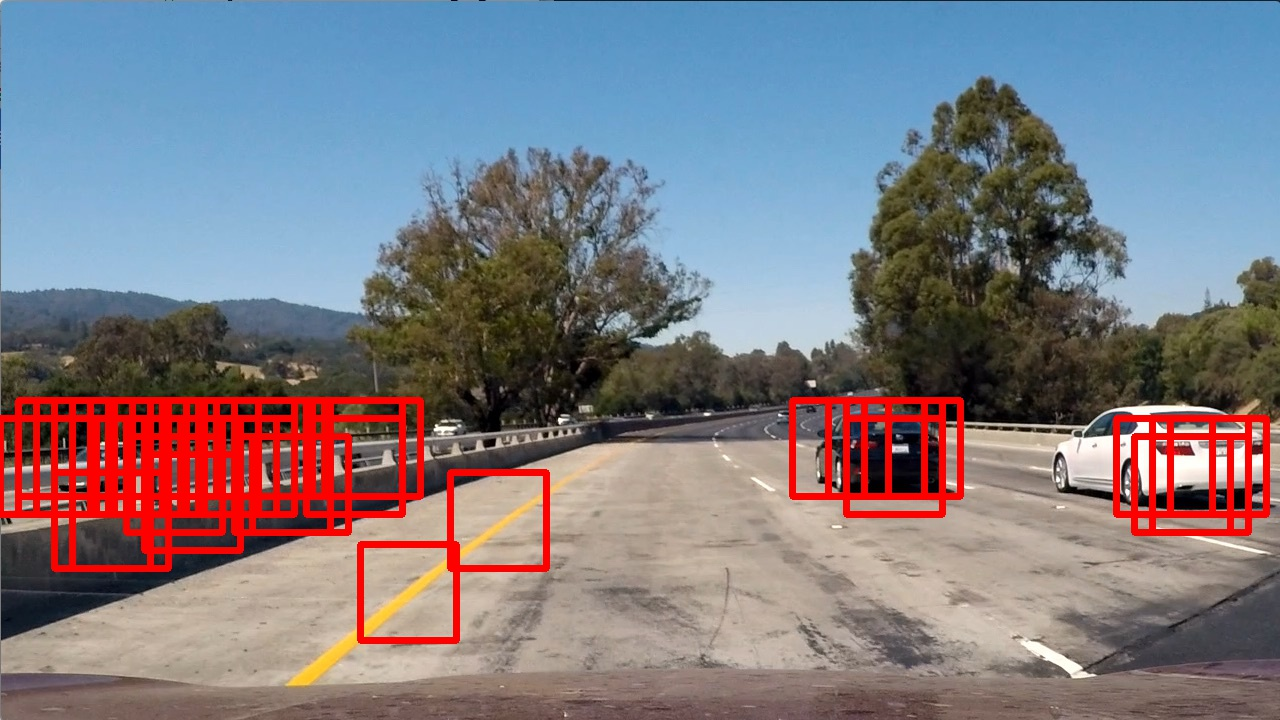
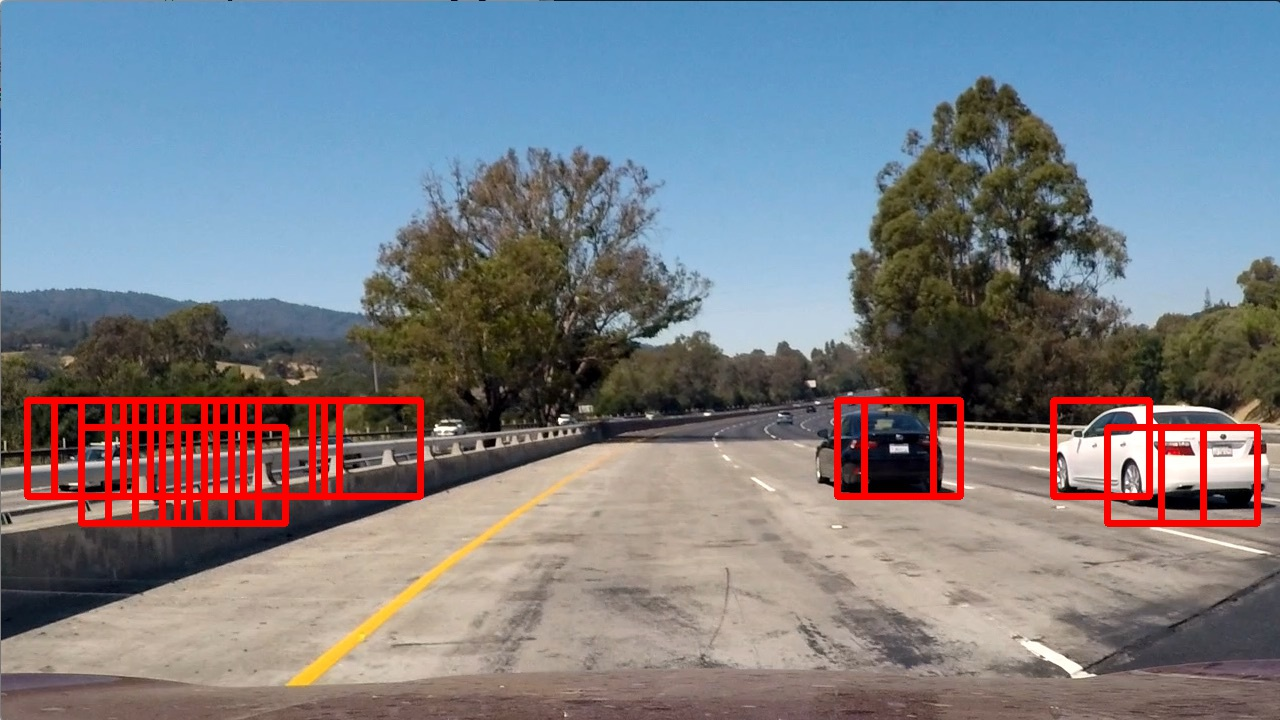
upload images of heat maps

Changed region(s): [[0.0, 0.55, 0.4375, 0.9167], [0.8125, 0.55, 1.0, 0.7639], [0.5938, 0.55, 0.75, 0.7333]]

diff --git a/README.md b/README.md
@@ -22,14 +22,21 @@ The goals / steps of this project are the following:
 [sliding_window2]: ./output_images/sliding_window-test4.jpg
 [sliding_window3]: ./output_images/sliding_window-test5.jpg
 
-[heat1]: ./output_images/heat_map-test1.jpg
-[heat2]: ./output_images/heat_map-test4.jpg
-[heat3]: ./output_images/heat_map-test5.jpg
+[heat1]: ./output_images/frame-1-heat.png
+[heat2]: ./output_images/frame-2-heat.png
+[heat3]: ./output_images/frame-3-heat.png
+[heat4]: ./output_images/frame-4-heat.png
+[heat5]: ./output_images/frame-5-heat.png
+[heat6]: ./output_images/frame-6-heat.png
+[fram1]: ./output_images/frame-1.png
+[fram2]: ./output_images/frame-2.png
+[fram3]: ./output_images/frame-3.png
+[fram4]: ./output_images/frame-4.png
+[fram5]: ./output_images/frame-5.png
+[fram6]: ./output_images/frame-6.png
 
-[image5]: ./examples/bboxes_and_heat.png
-[image6]: ./examples/labels_map.png
-[image7]: ./examples/output_bboxes.png
-[video1]: ./project_video.mp4
+[heat_output] ./output_images/frame-7-heat-output.png
+[detect]: ./output_images/frame-7-output.jpg
 
 ## [Rubric](https://review.udacity.com/#!/rubrics/513/view) Points
 ### Here I will consider the rubric points individually and describe how I addressed each point in my implementation.  
@@ -45,7 +52,7 @@ You're reading it!
 
 #### 1. Explain how (and identify where in your code) you extracted HOG features from the training images.
 
-The code for extracted HOG features is contained in lines # 21 through # 39 of the file called `utils.py`. 
+The code for extracted HOG features is contained in lines # 21 through # 39 in `utils.py`. 
 
 I started by reading in all the `vehicle` and `non-vehicle` images.  Here is an example of one of each of the `vehicle` and `non-vehicle` classes:
 
@@ -103,7 +110,7 @@ Ultimately I searched on two scales using YCrCb 3-channel HOG features plus spat
 ### Video Implementation
 
 #### 1. Provide a link to your final video output.  Your pipeline should perform reasonably well on the entire project video (somewhat wobbly or unstable bounding boxes are ok as long as you are identifying the vehicles most of the time with minimal false positives.)
-Here's a [link to my video result](./project_video.mp4)
+Here's a [link to my video result](./output-project_video.mp4)
 
 
 #### 2. Describe how (and identify where in your code) you implemented some kind of filter for false positives and some method for combining overlapping bounding boxes.
@@ -115,13 +122,18 @@ Here's an example result showing the heatmap from a series of frames of video, t
 
 
 ### Here are six frames and their corresponding heatmaps:
-![alt text][image5]
+![alt text][heat1] ![alt text][frame1]
+![alt text][heat2] ![alt text][frame2]
+![alt text][heat3] ![alt text][frame3]
+![alt text][heat4] ![alt text][frame4]
+![alt text][heat5] ![alt text][frame5]
+![alt text][heat6] ![alt text][frame6]
 
 ### Here is the output of `scipy.ndimage.measurements.label()` on the integrated heatmap from all six frames:
-![alt text][image6]
+![alt text][heat_output]
 
 ### Here the resulting bounding boxes are drawn onto the last frame in the series:
-![alt text][image7]
+![alt text][detect]
 
 
 
@@ -135,7 +147,5 @@ Here I'll talk about the approach I took, what techniques I used, what worked an
 
 
 Tracker:
--  Accept frame and labels (position of cars in that frame).
-- For each label in the frame, check if the car already exist if one of the following the steps below is True:
-1. labels of new car overlaps with an exist car. `_label_overlap` function in line # through # in `tracker.py`
-2. check if the labels are close to each other.  `_close_boxes` function in line # through # in `tracker.py`
+-  Accept frame and boxes (position of cars in that frame).
+- 
